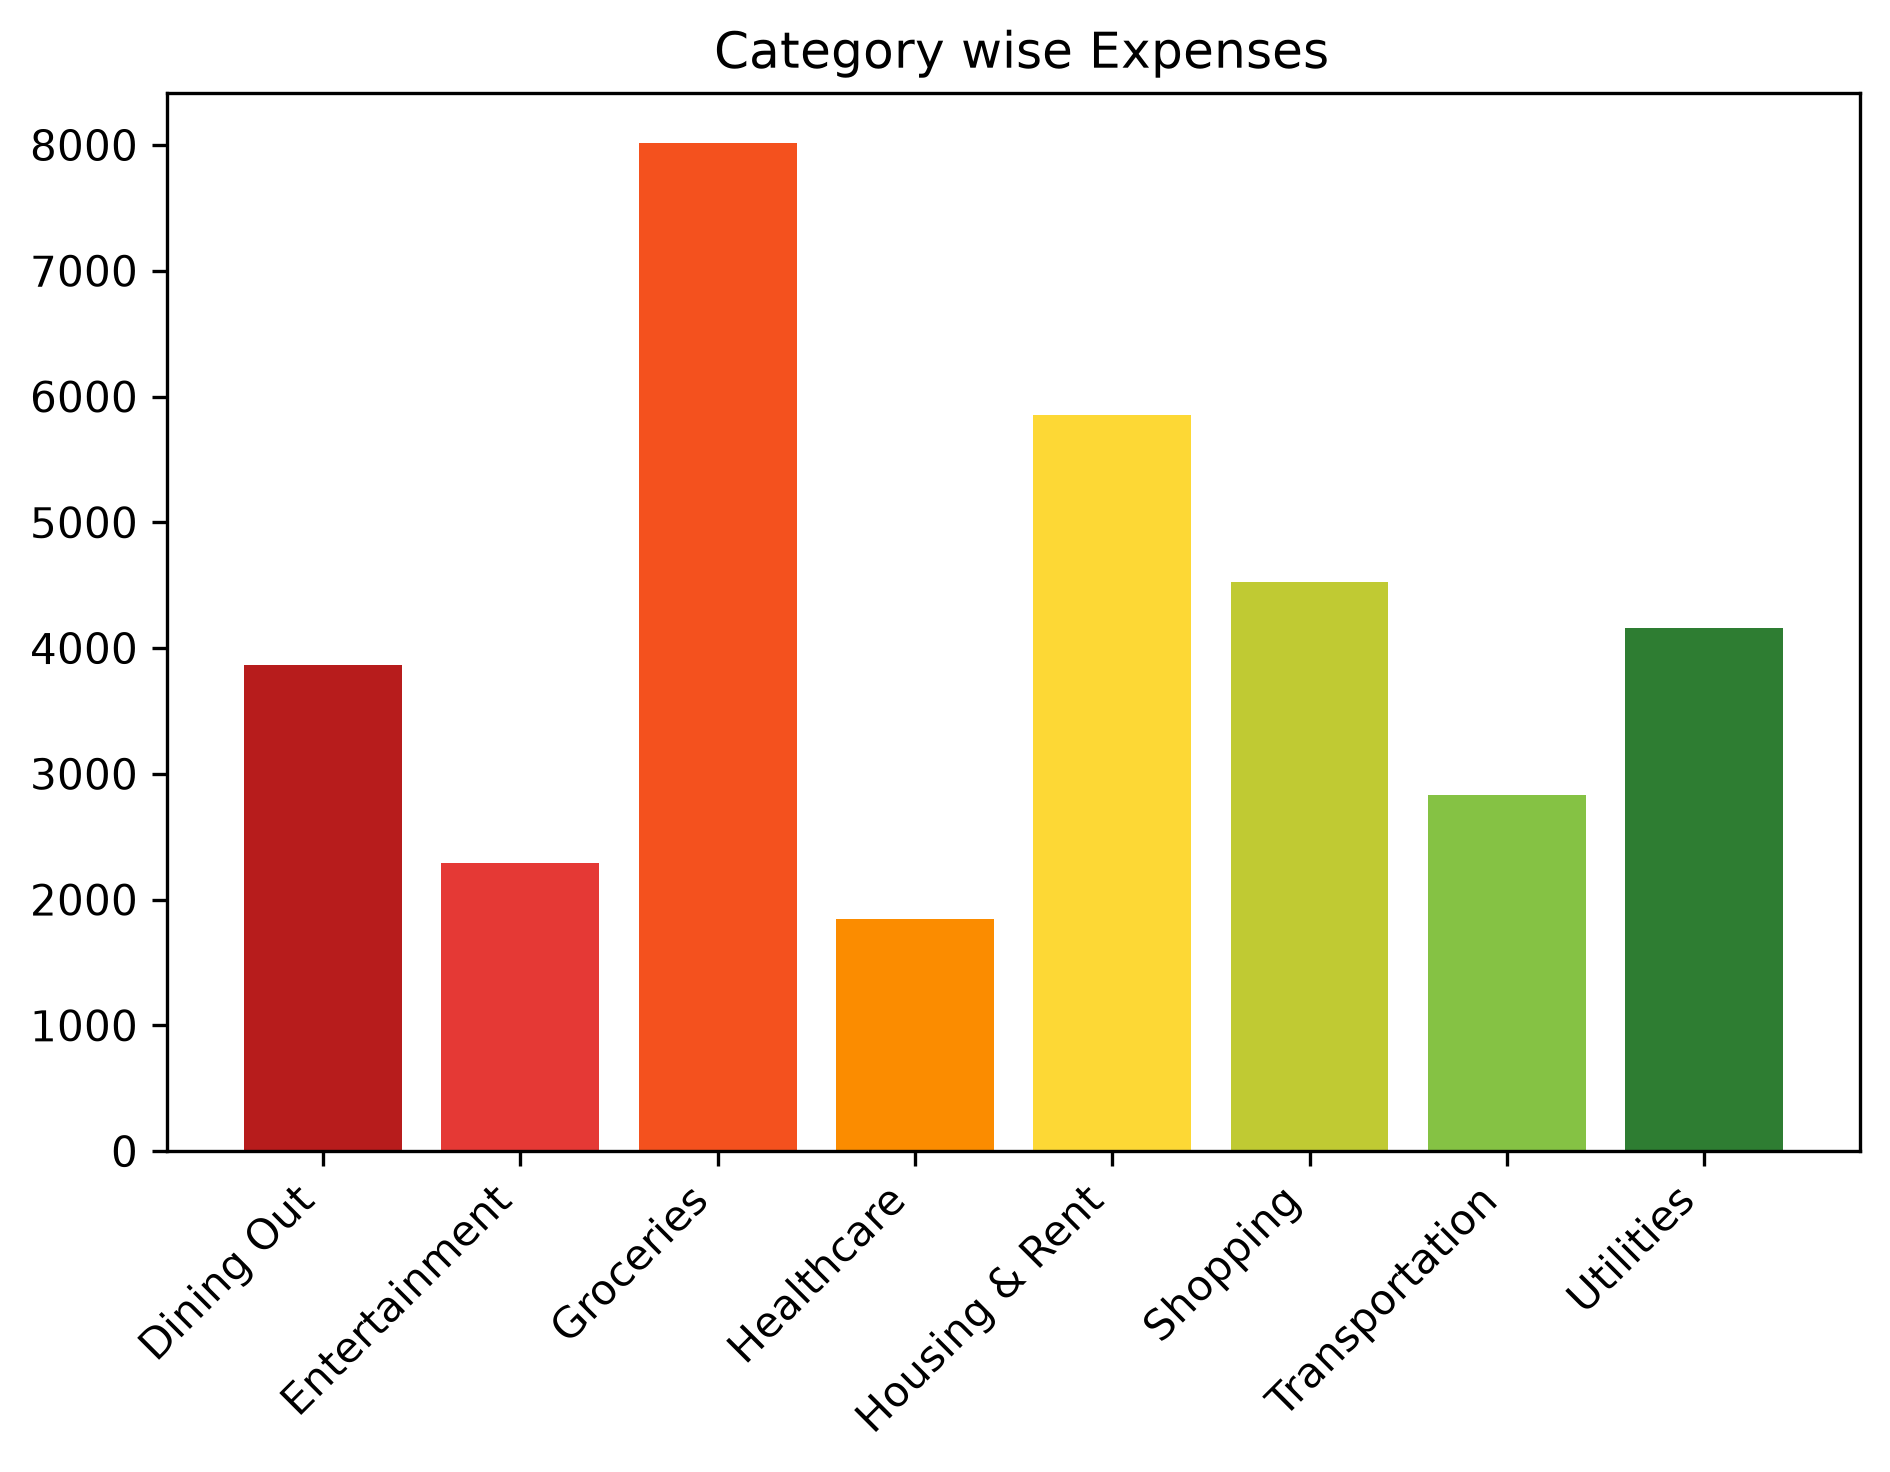
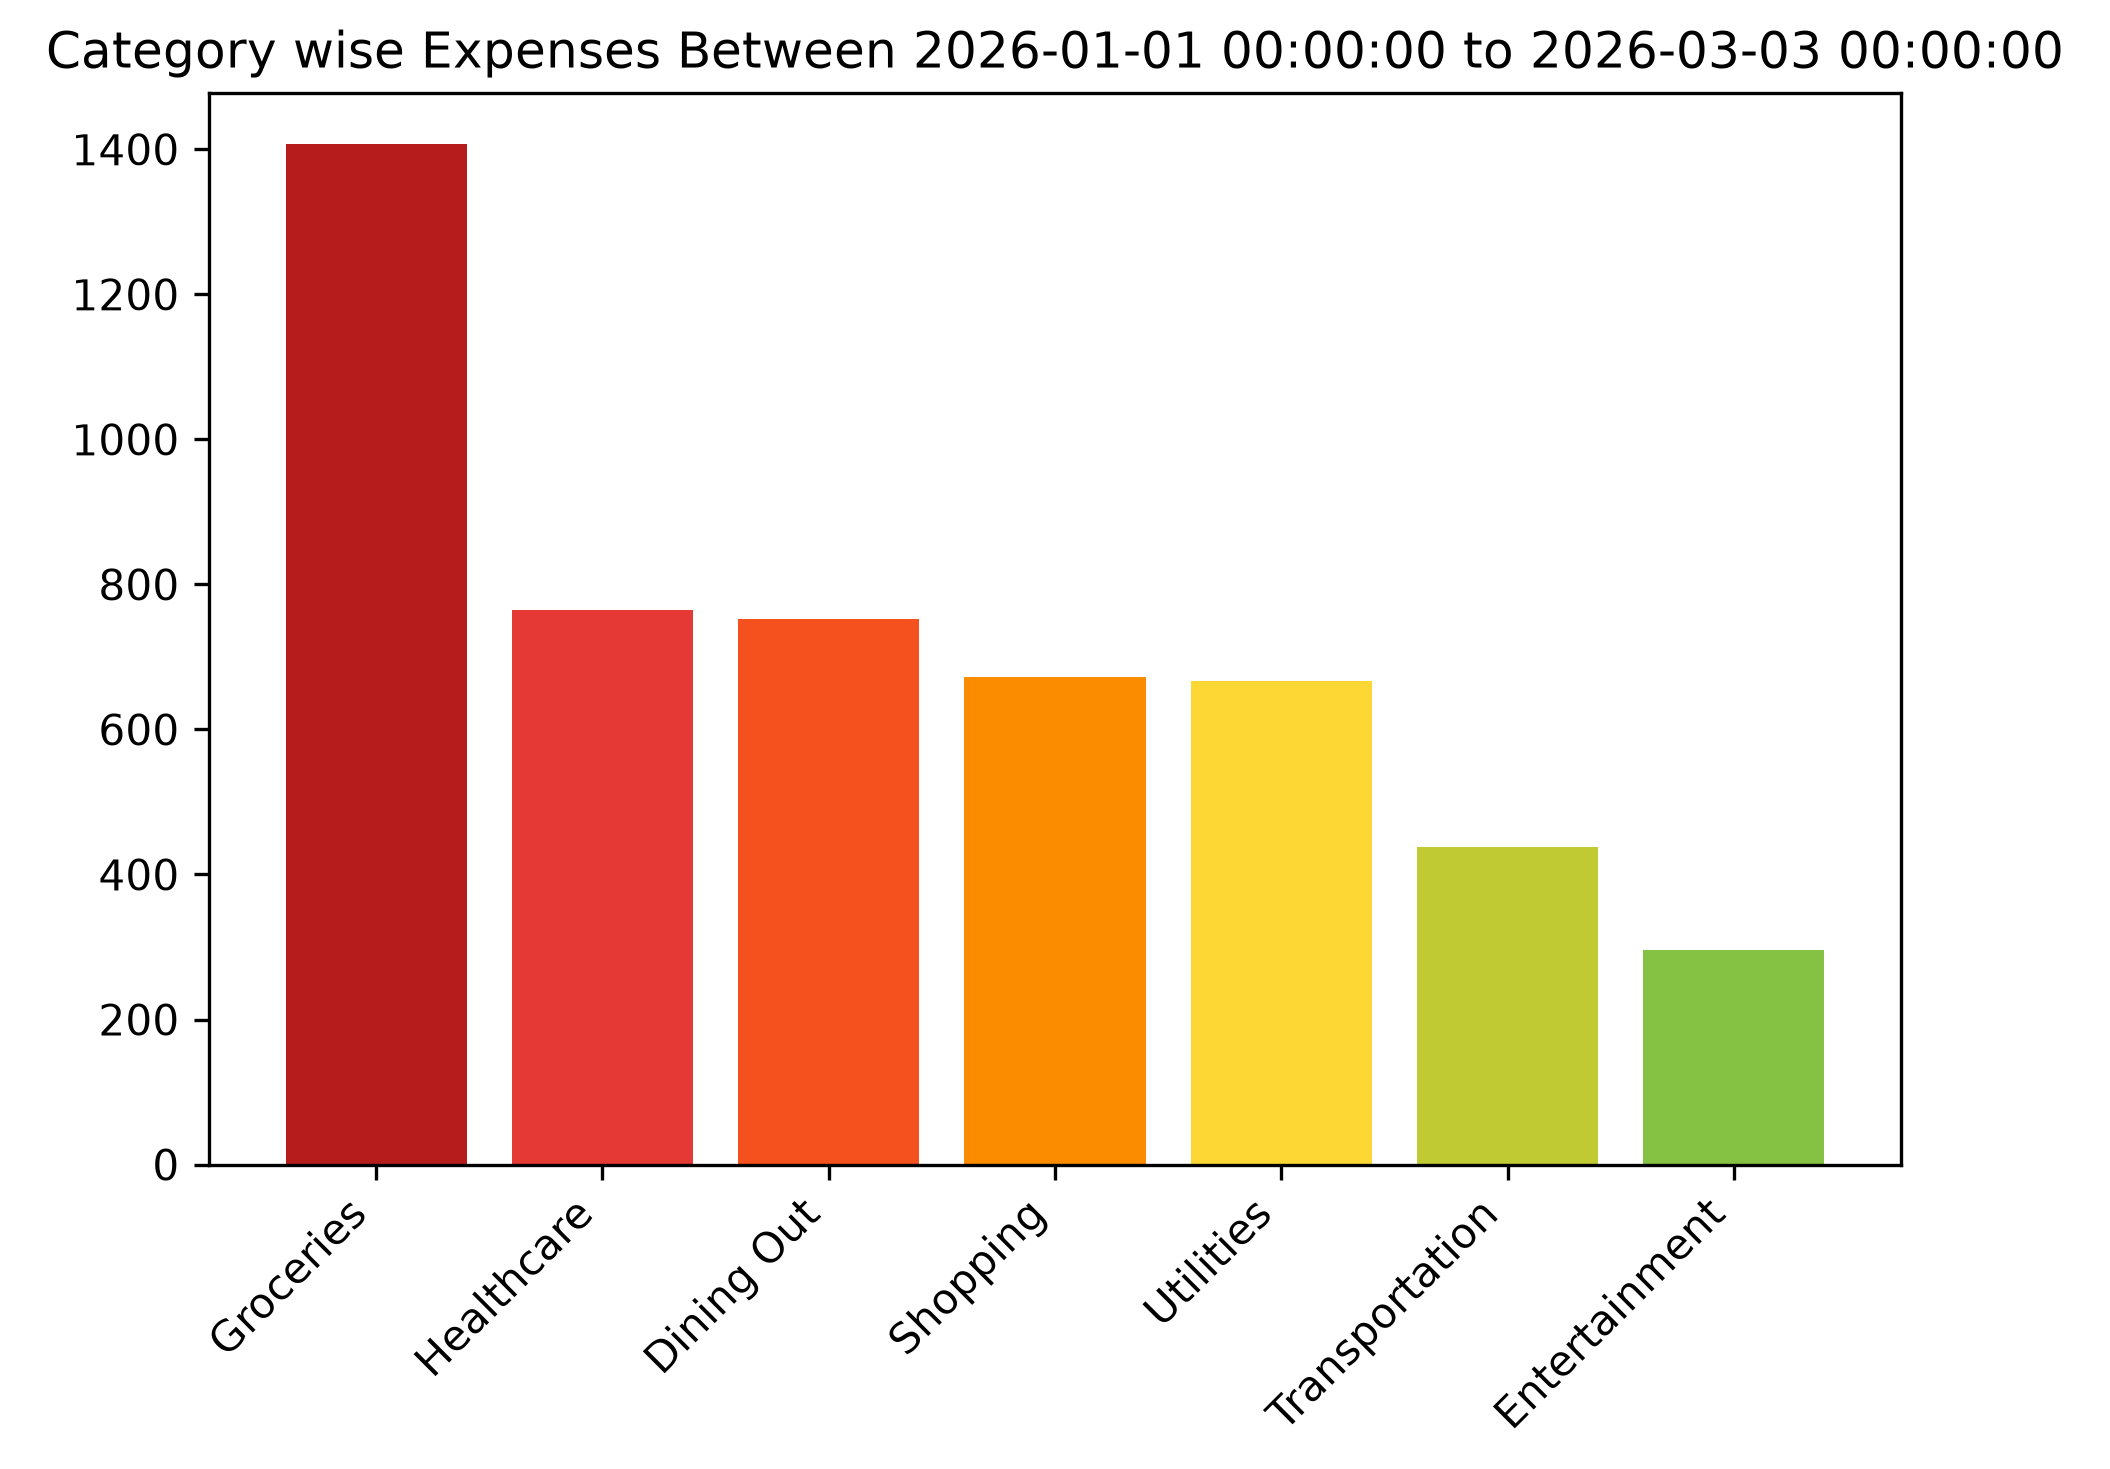
Updated expense analysis and date filtering

diff --git a/src/Group_Result_Bar.py b/src/Group_Result_Bar.py
@@ -2,6 +2,41 @@ import pandas as pd
 import matplotlib.pyplot as p
 from src.expense_analysis import Category_wise_expenses
 
+
+def filter_date(expenses,start,end):
+    start_date = pd.to_datetime(start)
+    end_date = pd.to_datetime(end)
+
+    result = expenses[
+        (expenses["Date"] >= start_date) &
+        (expenses["Date"] <= end_date)
+    ]
+    Category_wise_total =result.groupby("Category")["Amount"].sum()
+    Category_wise_total = Category_wise_total.reset_index()
+    Category_wise_total.columns = ["Category", "Amount"]
+    colors = [
+        "#B71C1C",  # 1. Dark red
+        "#E53935",  # 2. Red
+        "#F4511E",  # 3. Red-orange
+        "#FB8C00",  # 4. Orange
+        "#FDD835",  # 5. Yellow
+        "#C0CA33",  # 6. Yellow-green
+        "#85C244",  # 7. Light green
+        "#2E7D32"   # 8. Dark green
+      ]
+    C_Total=Category_wise_total.sort_values(by="Amount",ascending=False)
+    p.bar(C_Total["Category"],C_Total["Amount"],color=colors[:len(C_Total)])
+    p.xticks(rotation=45, ha="right")
+    p.tight_layout()
+    p.title(f" Category wise Expenses Between {start_date} to {end_date} ")
+    
+    p.savefig("reports/category_expenses.png", dpi=300, bbox_inches="tight")
+    
+    
+    
+    return Category_wise_total
+    
+
 def bar_grap_byGroup(expenses):
 
   total=Category_wise_expenses(expenses)
@@ -17,7 +52,7 @@ def bar_grap_byGroup(expenses):
   ]
 
   C_Total=total.sort_values(by="Amount",ascending=False)
-  p.bar(total["Category"],total["Amount"],color=colors)
+  p.bar(C_Total["Category"],C_Total["Amount"],color=colors)
   p.xticks(rotation=45, ha="right")
   p.tight_layout()
   p.title(" Category wise Expenses")

diff --git a/main.py b/main.py
@@ -3,6 +3,7 @@ import pandas as pd
 from src.expense_analysis import analyze_expenses
 
 from src.Group_Result_Bar import bar_grap_byGroup
+from src.Group_Result_Bar import filter_date
 
 
 
@@ -13,12 +14,16 @@ expenses = pd.read_csv("data/expenses.csv")
 # Perform the analysis
 results = analyze_expenses(expenses)
 
-bar_graph=bar_grap_byGroup(expenses)
+#bar_graph=bar_grap_byGroup(expenses)   #stop
+start = input("Enter start date (YYYY-MM-DD): ")
+end = input("Enter end date (YYYY-MM-DD): ")
 
+result =filter_date(expenses,start,end)
+print(result)
 
 # Display the results
 for name, value in results.items():
 
-    print(f"\n{name}:",value)
-
+    #print(f"\n{name}:",value)   stop
+    pass
     
